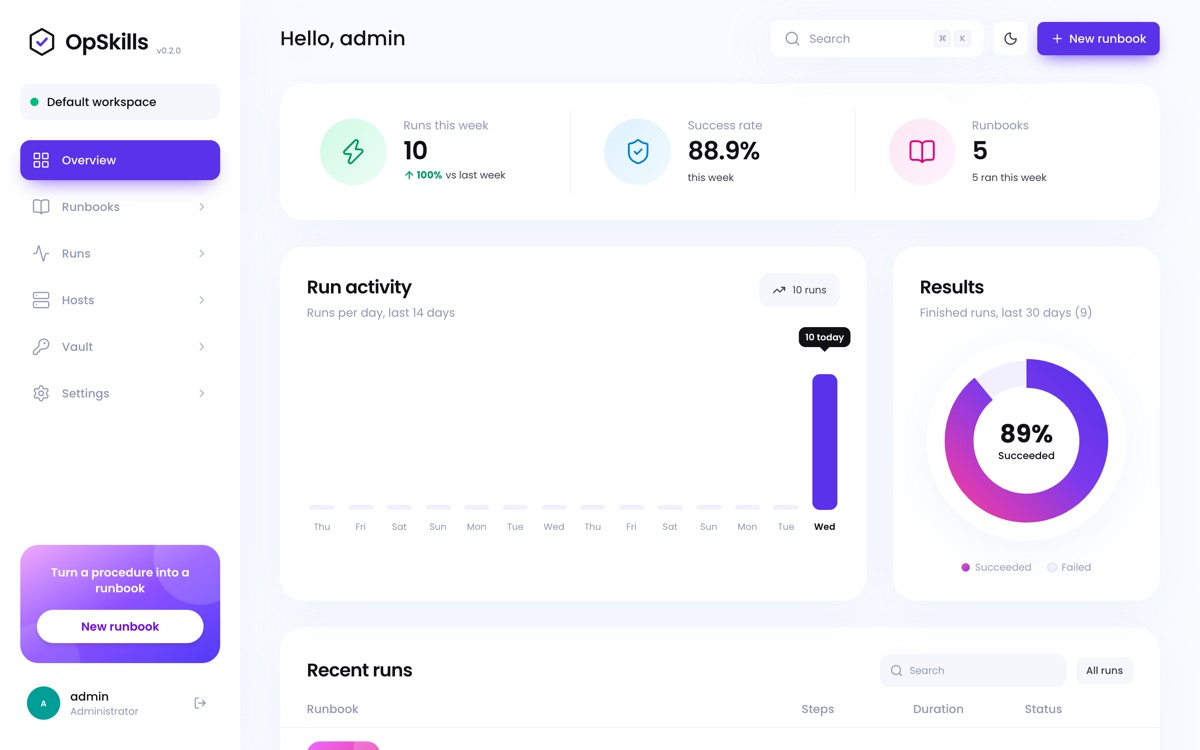
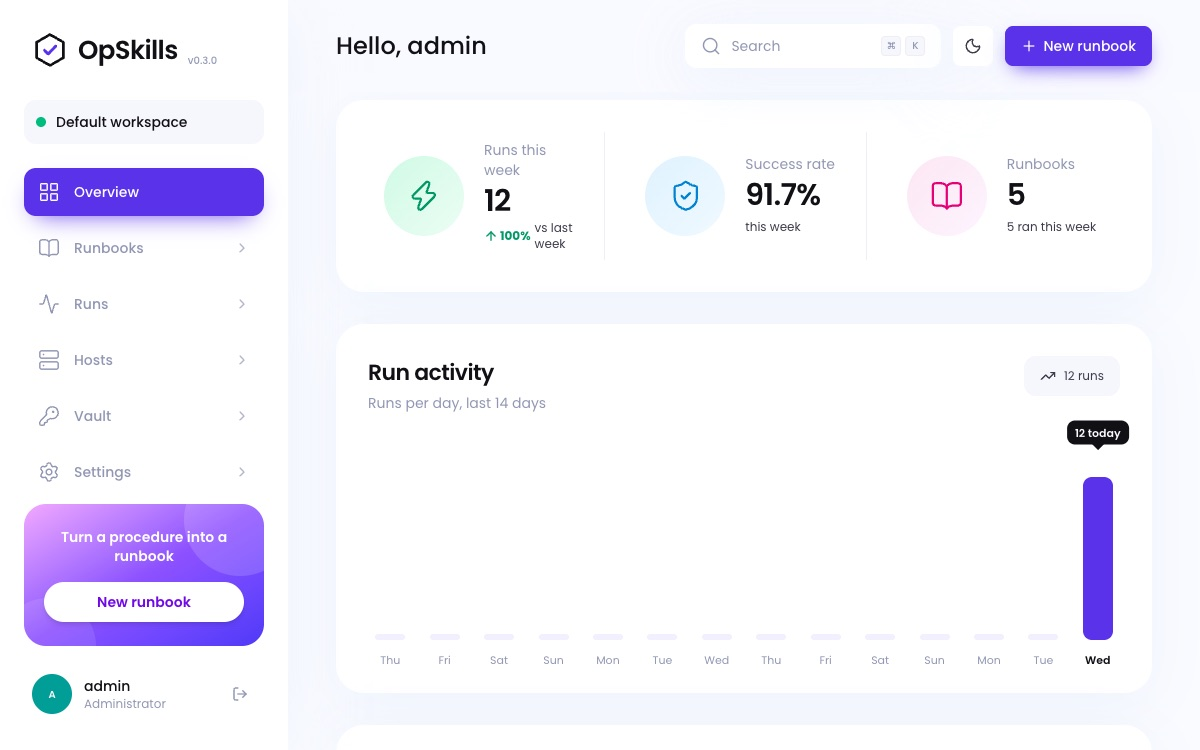
Website: screenshots from v0.3.0 (#7)
Replace the app screenshots and the social preview image with captures
of v0.3.0 running runbooks on enrolled hosts, and describe the overview
image accurately.

diff --git a/web/public/index.html b/web/public/index.html
@@ -362,7 +362,7 @@
         </div>
         <div class="frame">
           <div class="bar" aria-hidden="true"><i></i><i></i><i></i></div>
-          <img class="theme-light" src="app-light.jpg" width="2880" height="1800" alt="The OpSkills overview: weekly runs, success rate, hosts online, a monthly run chart and recent runs">
+          <img class="theme-light" src="app-light.jpg" width="2880" height="1800" alt="The OpSkills overview: runs this week, success rate, runbooks, a daily run chart, results and recent runs">
           <img class="theme-dark" src="app-dark.jpg" width="2880" height="1800" alt="The OpSkills overview in dark mode" loading="lazy">
         </div>
       </div>
